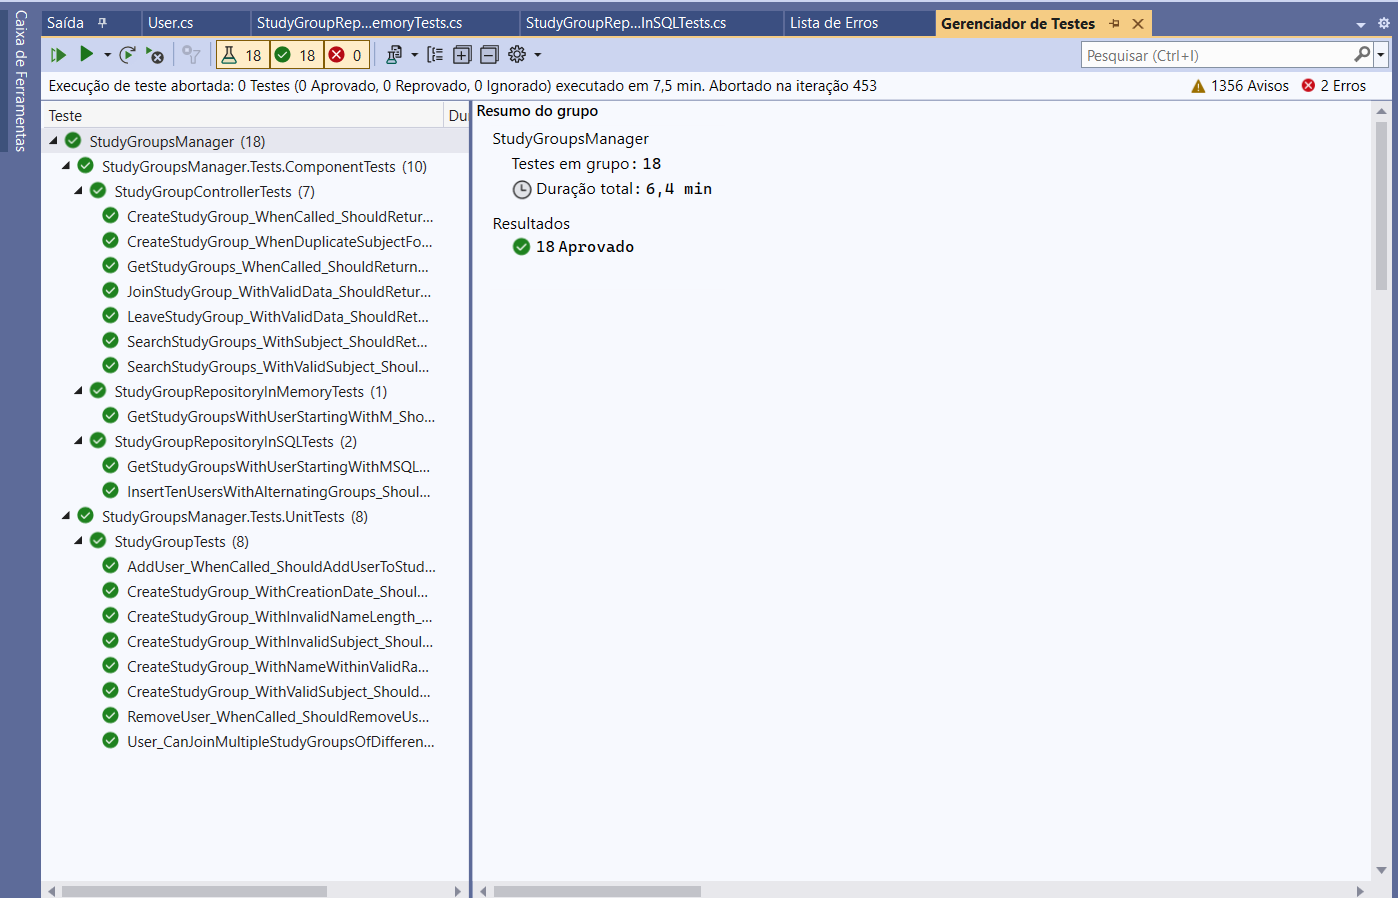
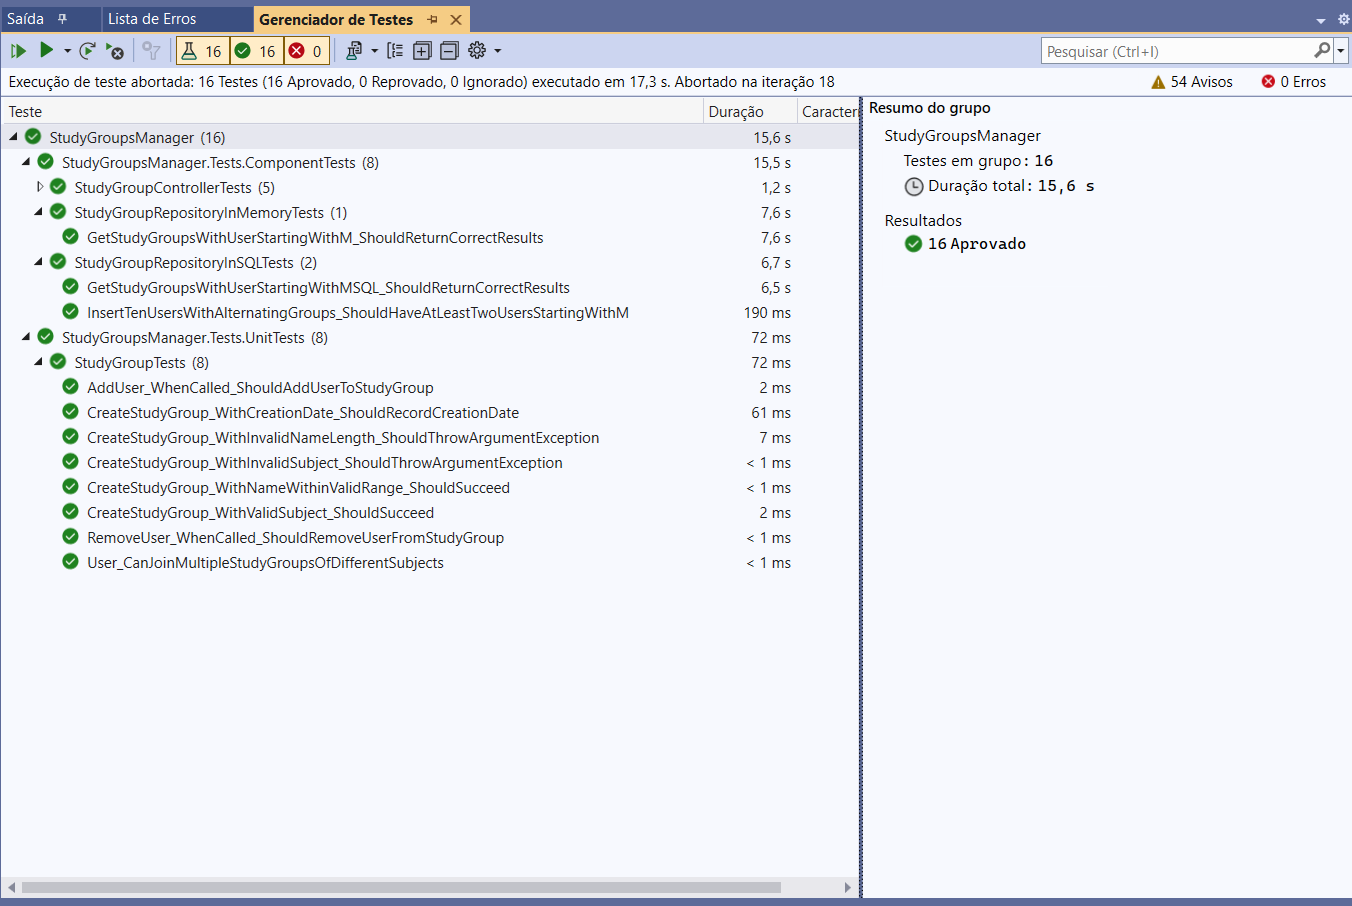
updated tests to project

Changed region(s): [[0.0, 0.0, 1.0, 1.0]]

diff --git a/Tests/ComponentTests/StudyGroupControllerTests.cs b/Tests/ComponentTests/StudyGroupControllerTests.cs
@@ -1,6 +1,10 @@
 using Moq;
 using StudyGroupsManager.Models;
 using Microsoft.AspNetCore.Mvc;
+using NUnit.Framework;
+using System;
+using System.Collections.Generic;
+using System.Threading.Tasks;
 
 namespace StudyGroupsManager.Tests.ComponentTests
 {
@@ -13,7 +17,6 @@ namespace StudyGroupsManager.Tests.ComponentTests
         [SetUp]
         public void Setup()
         {
-            // Initialize mock before each test
             _mockRepository = new Mock<IStudyGroupRepository>();
             _controller = new StudyGroupController(_mockRepository.Object);
         }
@@ -21,137 +24,69 @@ namespace StudyGroupsManager.Tests.ComponentTests
         [Test]
         public async Task CreateStudyGroup_WhenCalled_ShouldReturnOk()
         {
-            // Arrange
-            var studyGroup = new StudyGroup(1, "Math Group", Subject.Math, DateTime.Now, new List<User>());
-
+            var studyGroup = new StudyGroup { Name = "Math Study Group", Subject = Subject.Math };
             _mockRepository.Setup(repo => repo.CreateStudyGroup(It.IsAny<StudyGroup>()))
                            .Returns(Task.CompletedTask);
 
-            // Act
             var result = await _controller.CreateStudyGroup(studyGroup);
 
-            // Assert
             Assert.IsInstanceOf<OkResult>(result);
         }
 
         [Test]
         public async Task GetStudyGroups_WhenCalled_ShouldReturnAllStudyGroups()
         {
-            // Arrange
-            var studyGroups = new List<StudyGroup>
-            {
-                new StudyGroup(1, "Math Group", Subject.Math, DateTime.Now, new List<User>())                
-                // Add more study groups as necessary
-            };
+            var studyGroups = new List<StudyGroup> { new StudyGroup(1, "Math Group", Subject.Math, DateTime.Now, new List<User>()) };
+            _mockRepository.Setup(repo => repo.GetStudyGroups()).ReturnsAsync(studyGroups);
 
-            _mockRepository.Setup(repo => repo.GetStudyGroups())
-                           .ReturnsAsync(studyGroups);
-
-            // Act
             var result = await _controller.GetStudyGroups();
 
-            // Assert
-            var objectResult = result as OkObjectResult;
-            Assert.IsNotNull(objectResult, "The result is not OkObjectResult type.");
-
-            var model = objectResult.Value as IEnumerable<StudyGroup>;
-            Assert.IsNotNull(model, " The value is not IEnumerable<StudyGroup> type.");
-
-            Assert.That(model.Count(), Is.EqualTo(studyGroups.Count), "The count of the study groups does not match.");
-        }
-
-        [Test]
-        public async Task SearchStudyGroups_WithValidSubject_ShouldReturnFilteredResults()
-        {
-            // Arrange
-            var subject = Subject.Math;
-            var filteredStudyGroups = new List<StudyGroup> { new StudyGroup(1, "Math Group", subject, DateTime.Now, new List<User>()) };
-            _mockRepository.Setup(repo => repo.SearchStudyGroups(It.Is<string>(s => s == subject.ToString())))
-                           .ReturnsAsync(filteredStudyGroups);
-
-            // Act
-            var result = await _controller.SearchStudyGroups(subject.ToString());
-
-            // Assert
             var objectResult = result as OkObjectResult;
             Assert.IsNotNull(objectResult);
-            var returnedGroups = objectResult.Value as IEnumerable<StudyGroup>;
-            Assert.IsNotNull(returnedGroups);
-            Assert.That(returnedGroups.Count(), Is.EqualTo(filteredStudyGroups.Count));
+            var model = objectResult.Value as IEnumerable<StudyGroup>;
+            Assert.IsNotNull(model);
+            Assert.That(model, Is.EquivalentTo(studyGroups));
         }
 
         [Test]
         public async Task JoinStudyGroup_WithValidData_ShouldReturnOk()
         {
-            // Arrange
             _mockRepository.Setup(repo => repo.JoinStudyGroup(It.IsAny<int>(), It.IsAny<int>()))
                            .Returns(Task.CompletedTask);
 
-            // Act
             var result = await _controller.JoinStudyGroup(1, 1);
 
-            // Assert
             Assert.IsInstanceOf<OkResult>(result);
         }
 
         [Test]
         public async Task LeaveStudyGroup_WithValidData_ShouldReturnOk()
         {
-            // Arrange
             _mockRepository.Setup(repo => repo.LeaveStudyGroup(It.IsAny<int>(), It.IsAny<int>()))
                            .Returns(Task.CompletedTask);
 
-            // Act
             var result = await _controller.LeaveStudyGroup(1, 1);
 
-            // Assert
             Assert.IsInstanceOf<OkResult>(result);
-        }
-
-        [Test]
-        public async Task CreateStudyGroup_WhenDuplicateSubjectForUser_ShouldReturnBadRequest()
-        {
-            // Arrange
-            var studyGroup = new StudyGroup(1, "Math Group", Subject.Math, DateTime.Now, new List<User>());
-            _mockRepository.Setup(repo => repo.CreateStudyGroup(It.IsAny<StudyGroup>()))
-                           .Throws(new InvalidOperationException("User already has a study group for this subject."));
-
-            // Act
-            var result = await _controller.CreateStudyGroup(studyGroup);
-
-            // Assert
-            Assert.IsInstanceOf<BadRequestObjectResult>(result);
         }
 
         [Test]
         public async Task SearchStudyGroups_WithSubject_ShouldReturnFilteredStudyGroups()
         {
-            // Arrange
             var subject = Subject.Math;
-            var filteredStudyGroups = new List<StudyGroup>
-    {
-        new StudyGroup(1, "Math Group", subject, DateTime.Now, new List<User>())
-    };
+            var filteredStudyGroups = new List<StudyGroup> { new StudyGroup(1, "Math Group", subject, DateTime.Now, new List<User>()) };
             _mockRepository.Setup(repo => repo.SearchStudyGroups(subject.ToString()))
                            .ReturnsAsync(filteredStudyGroups);
 
-            // Act
             var result = await _controller.SearchStudyGroups(subject.ToString());
 
-            // Assert
             var objectResult = result as OkObjectResult;
             Assert.IsNotNull(objectResult);
             var returnedGroups = objectResult.Value as IEnumerable<StudyGroup>;
             Assert.IsNotNull(returnedGroups);
-            Assert.That(returnedGroups, Is.Not.Empty);
-            foreach (var group in returnedGroups)
-            {
-                Assert.That(group.Subject, Is.EqualTo(subject));
-            }
+            Assert.That(returnedGroups, Is.EquivalentTo(filteredStudyGroups));
         }
 
-
-        // Additional tests for joining, viewing, and leaving groups can be implemented as necessary.
-
+        // Include new tests if necessary
     }
 }

diff --git a/Tests/UnitTests/StudyGroupTests.cs b/Tests/UnitTests/StudyGroupTests.cs
@@ -1,9 +1,7 @@
 using StudyGroupsManager.Models;
+using NUnit.Framework;
 using System;
 using System.Collections.Generic;
-using System.Linq;
-using System.Text;
-using System.Threading.Tasks;
 
 namespace StudyGroupsManager.Tests.UnitTests
 {
@@ -109,7 +107,5 @@ namespace StudyGroupsManager.Tests.UnitTests
             Assert.IsTrue(mathGroup.Users.Contains(user), "User should be in the math group.");
             Assert.IsTrue(chemistryGroup.Users.Contains(user), "User should be in the chemistry group.");
         }
-
-        // Add more tests as necessary for name validation, etc.
     }
 }

diff --git a/Models/StudyGroup.cs b/Models/StudyGroup.cs
@@ -41,9 +41,9 @@ namespace StudyGroupsManager.Models
 
         // Define constraints for the Name property
         [StringLength(MaxNameLength, MinimumLength = MinNameLength, ErrorMessage = "The group name must be between {2} and {1} characters.")]
-        public string? Name { get; private set; }
+        public string? Name { get; set; }
 
-        public Subject Subject { get; } // Subject of the study group
+        public Subject Subject { get; set; } // Subject of the study group
 
         public DateTime CreateDate { get; set; } // Date when the study group was created
 
